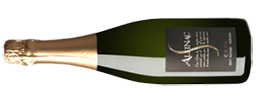
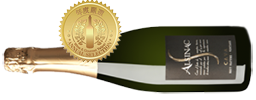
update swiss wine item layout

diff --git a/main.css b/main.css
@@ -113,7 +113,7 @@ border: 1px solid #eee;
 /* swiss */
 .che {
     overflow: auto;
-    margin-bottom: 60px;
+    /*margin-bottom: 60px;*/
     padding-top: 20px;
 }
 .che .item-info {
@@ -206,6 +206,29 @@ border: 1px solid #eee;
     border-bottom: 1px solid grey;
     margin: 15px auto;
 }
+
+.col-3 {
+    width: 25%;
+    min-width: 285px;
+    display: inline-block;
+    text-align: left;
+    vertical-align: top;
+    margin: 15px;
+}
+.col-3-bottom {
+    background-color: rgba(240, 240, 240, 0.5);
+    padding: 20px 10px 10px;
+}
+.col-3-top img {
+    width: 100%;
+    height: auto;
+    margin-bottom: -10px
+}
+
+@media (max-width: 620px) { 
+.col-3 { width: 60%; } 
+}
+    
 .bg-line-left {
     width: 45px;
     border-bottom: 1px solid grey;
@@ -229,14 +252,7 @@ border: 1px solid #eee;
     bottom: 0;
     background-image: linear-gradient(190deg, rgba(0,0,0, 0), rgba(0,0,0, 0.75));
 }
-.js-vs {
-    padding: 30px 20px;
-    box-sizing: border-box;
-}
-.js-vs div {
-    max-width: 450px;
-    margin: auto;
-}
+
 .js-vs .name {
     font-size: 16px;
     font-weight: bold;
@@ -260,22 +276,6 @@ border: 1px solid #eee;
     padding-right: 15px;
     padding-left: 15px;
 }
-.bg-cava {
-    color: #fff;
-    background-image: url("imgs/bg-cava.jpg");
-    background-size: cover;
-    background-position: center;
-}
-
-[class*="bg-cava-"] {
-    background-size: 200px auto;
-    background-repeat: no-repeat;
-    background-position: center;
-}
-.bg-cava-1 { background-image: url("imgs/bg-cava-1.png"); }
-.bg-cava-2 { background-image: url("imgs/bg-cava-2.png"); }
-.bg-cava-3 { background-image: url("imgs/bg-cava-3.png"); }
-
 .row { 
     max-width: 1024px;
     overflow: auto;
@@ -295,7 +295,10 @@ border: 1px solid #eee;
     float: left;
     text-align: center;
 }
-@media (min-width: 480px) { .col-cl div { width: 50%; text-align: left; } }
+@media (min-width: 480px) { 
+    .col-cl div { width: 50%; text-align: left; } 
+    .js-cl { padding-top: 12px; }
+}
 @media (min-width: 740px) { 
     .col-cd { width: 40%; } 
     .col-cl { width: 60%; margin-top: 15px; } 
@@ -304,6 +307,23 @@ border: 1px solid #eee;
     .col-cd { width: 50%; } 
     .col-cl { width: 50%; margin-top: 0; } 
 }
+.bg-cava {
+    color: #fff;
+    min-height: 256px;
+    background-image: url("imgs/bg-cava.jpg");
+    background-size: cover;
+    background-position: center;
+}
+
+[class*="bg-cava-"] {
+    background-size: 200px auto;
+    background-repeat: no-repeat;
+    background-position: center;
+}
+.bg-cava-1 { background-image: url("imgs/bg-cava-1.png"); }
+.bg-cava-2 { background-image: url("imgs/bg-cava-2.png"); min-height: 82px !important;}
+.bg-cava-3 { background-image: url("imgs/bg-cava-3.png"); }
+.cava-2 { min-height: 82px !important;}
 /* end of cava */
 
 /* sz table wines */
@@ -380,6 +400,12 @@ border: 1px solid #eee;
 
 .prt-cherry {
     overflow: auto;
+    position: relative;
+}
+.prt-awards {
+    position: absolute;
+    top: 0;
+    right: 0;
 }
 .bg-cherry {
     background: 
@@ -393,7 +419,7 @@ border: 1px solid #eee;
 }
 @media (min-width: 740px) {
     .bg-cherry{ 
-        background-position: 95% 65%, 40% -4px, top left;
+        background-position: 95% 65%, 45% -3px, top left;
         background-size: 300px auto, 58px auto, 30% auto;
         padding-bottom: 2%;
 }}
@@ -405,15 +431,11 @@ border: 1px solid #eee;
     float: left;
     overflow: hidden;
 }
-.col-2-left {
-    padding: 2% 3% 2% 6%;
-}
-.col-2-right {
-    padding: 2% 6% 2% 3%;
-}
 @media (min-width: 740px) { 
-    .col-2 { width: calc(100% / 2); } 
     .w-cl  { width: calc(100% - 300px); } 
+    .col-2 { width: calc(100% / 2); } 
+    .col-2-left { padding: 2% 3% 2% 6%; }
+    .col-2-right { padding: 2% 6% 2% 3%; }
 }
 
 

diff --git a/main.js b/main.js
@@ -77,8 +77,9 @@
         d3.select(".js-vs")
         .selectAll("div").data(vsData).enter()
         .append("div")
-        .html(function(d) { 
-          return item(d); 
+        .attr("class", "col-3")
+        .html(function(d, i) { 
+          return addItem(d, i); 
        });
     });
     
@@ -116,12 +117,11 @@
         .attr("src", function(d, i) { return "imgs/" + key+(i+1) + ".png";} );
     }
     
-    /*function addItem(d) {
-        var item = d3.append("div")
-        .attr("class", "row-che");
-        
-        item
-        .append("div")
-        .attr("class", "col-3");
-    }*/
+    function addItem(d, i) {
+        return (
+            '<div class="col-3-top"><img src="imgs/vs/' + 
+            d.id + '.jpg"></div>' +
+            '<div class="col-3-bottom">' + item(d) + '</div>'
+        );
+    }
 })();

diff --git a/index.html b/index.html
@@ -84,7 +84,7 @@
                     </div>
                     <div class="cava-list col-cl">
                         <div class="bg-cava-1"></div><div class="js-cl"></div>
-                        <div class="bg-cava-2"></div><div class="js-cl"></div>
+                        <div class="bg-cava-2"></div><div class="js-cl cava-2"></div>
                         <div class="bg-cava-3"></div><div class="js-cl"></div>
                     </div>
                 </div>
@@ -132,6 +132,7 @@
 
                 <!-- cherry -->
                 <div class="prt-cherry bg-cherry">
+                    <!--img class="prt-awards" src="imgs/cherry-awards.png"-->
                     <div class="col-2 w-cl">
                         <h3 class="js-prt-name mb-0"></h3>
                         <div class="bg-line-left"></div>
